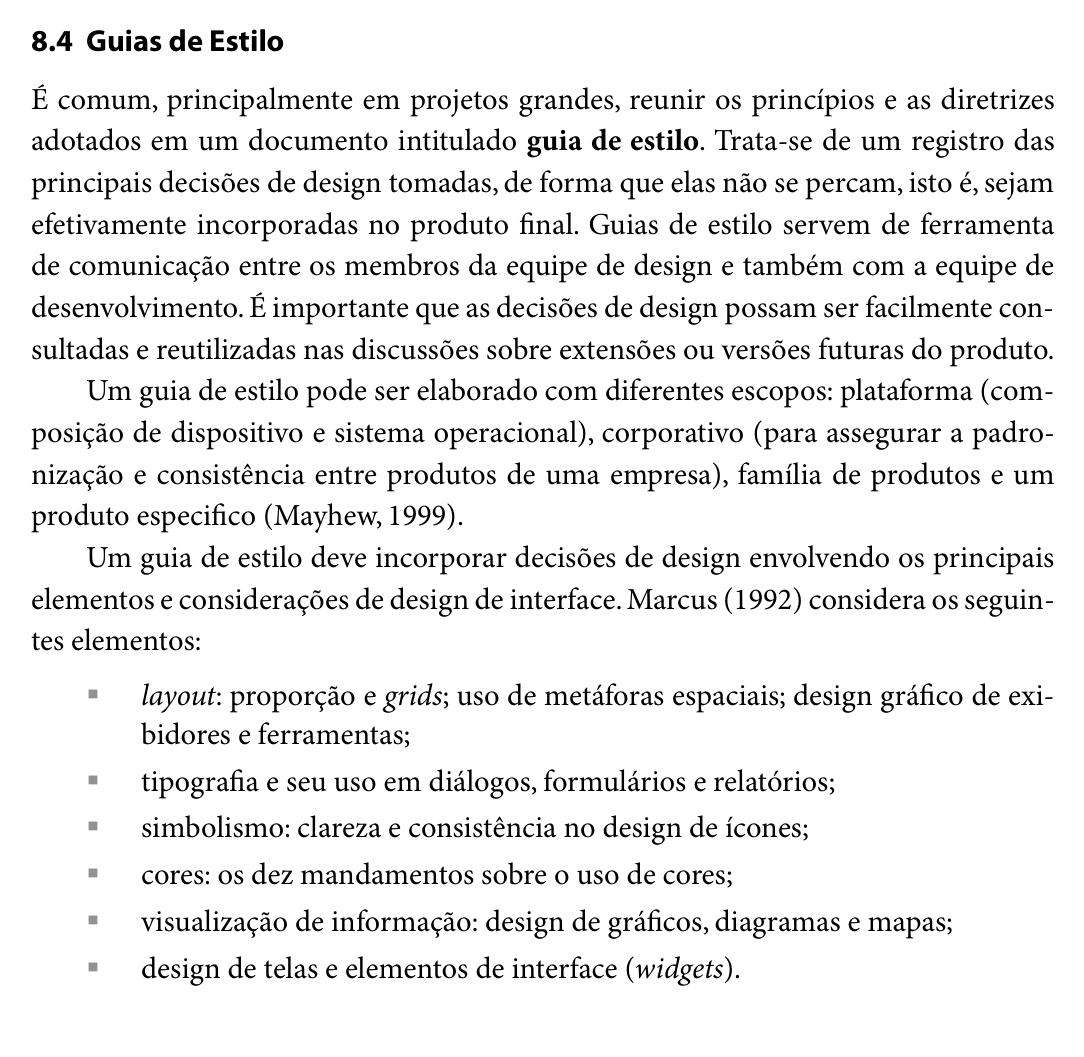
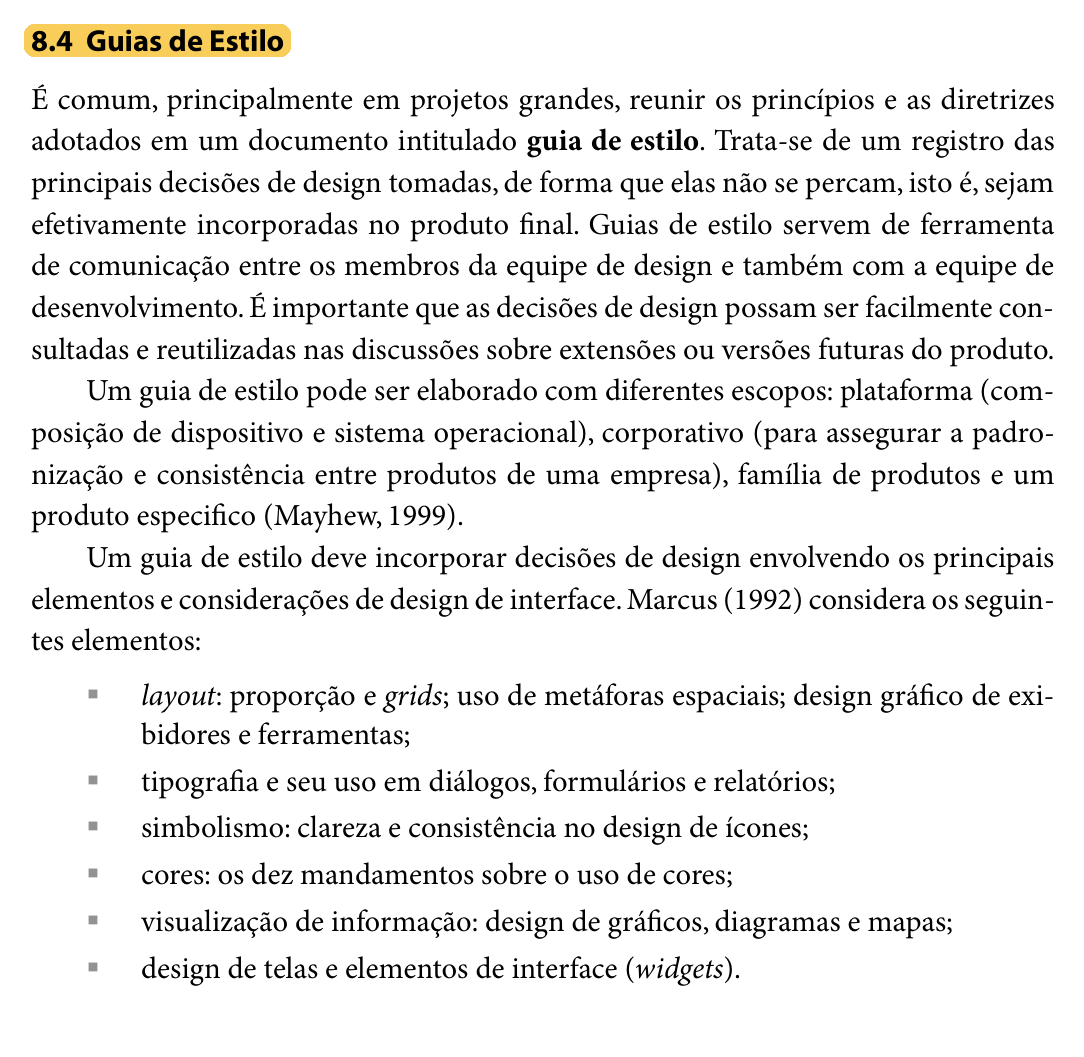
docs(etapa-3): padroniza guia de estilo, corrige fotos com grifo e refina cronograma executado

Changed region(s): [[0.0, 0.0, 0.274, 0.0624]]

diff --git a/docs/design-avaliacao-desenvolvimento/guia-de-estilo.md b/docs/design-avaliacao-desenvolvimento/guia-de-estilo.md
@@ -1,6 +1,3 @@
-**Responsável:** Leonardo da Silva Lopes Júnior — Guia de estilo  
-**Autor dos itens 15, 16 e 17:** Leonardo da Silva Lopes Júnior
-
 <div align="center" markdown="1">
 
 <p align="center"><b>Tabela de Contribuição</b></p>
@@ -12,7 +9,7 @@
 | Pedro Rocha Ferreira Lima | Revisão da conformidade visual com os achados de análise de requisitos e padrões de acessibilidade. |
 | Gemini | Auxílio na estruturação textual, organização dos códigos de cores, diagramação em Markdown e checagem de conformidade com o checklist de IHC (conforme Política de Uso de IA). |
 
-<p align="center"><b>Tabela 1:</b> Contribuição neste artefato. <b>Fonte:</b> Leonardo da Silva Lopes Júnior (2026).</p>
+<p align="center" style="font-size: 0.85em; margin-top: -0.6em;"><b>Fonte:</b> Leonardo da Silva Lopes Júnior (2026).</p>
 
 </div>
 
@@ -20,17 +17,15 @@
 
 ## Introdução
 
-Este documento apresenta o **Guia de Estilo** para o reprojeto do portal **PCI Concursos** (`pciconcursos.com.br`), correspondente aos **itens oficiais 15, 16 e 17** da Entrega 3 da disciplina de Interação Humano-Computador da Universidade de Brasília (SALES, 2026).
+Este documento apresenta o **Guia de Estilo** para o reprojeto do portal **PCI Concursos** (`pciconcursos.com.br`), elaborado para a Entrega 3 da disciplina de Interação Humano-Computador da Universidade de Brasília (SALES, 2026).
 
 No modelo de ciclo de vida da Engenharia de Usabilidade proposto por Deborah Mayhew (1999), adotado pelo Grupo 07 em seu [Processo de Design](../planejamento/processo-de-design.md), a fase de **Análise de Requisitos** tem como um de seus principais produtos a elaboração do guia de estilo. Esse documento sintetiza e operacionaliza as diretrizes, princípios de IHC e metas de usabilidade derivados da análise de tarefas, do perfil de usuário e das possibilidades e limitações da plataforma, garantindo que as decisões de design sejam mantidas e reflitam no produto final de forma consistente (BARBOSA; SILVA, 2010, p. 109-110, 282).
 
 ---
 
-## Itens de Conteúdo da Disciplina
+## 1. Fundamentação Teórica
 
-### O que é um Guia de Estilo (Item 15)
-* **Autor do item:** Leonardo da Silva Lopes Júnior
-
+### 1.1 O que é um Guia de Estilo
 Segundo Barbosa e Silva (2010, p. 282), é prática comum, sobretudo em projetos de grande escala ou em reprojetos de sistemas complexos, reunir os princípios e as diretrizes adotados em um documento formal intitulado **guia de estilo**. Esse documento atua como o registro central das principais decisões de design concebidas pela equipe, impedindo que se dispersem ao longo do ciclo de vida e assegurando que sejam fielmente incorporadas à interface final.
 
 Além disso, os autores destacam que os guias de estilo desempenham um papel fundamental como ferramenta de comunicação entre os designers de interação, desenvolvedores front-end, redatores e mantenedores do sistema, permitindo que soluções consolidadas sejam consultadas e reaproveitadas em extensões e versões futuras. Conforme apontado por Mayhew (1999), um guia de estilo pode abranger quatro escopos:
@@ -41,19 +36,19 @@ Além disso, os autores destacam que os guias de estilo desempenham um papel fun
 
 A Figura 1 reproduz o trecho da literatura (Seção 8.4, p. 282) que fundamenta a definição e a importância do guia de estilo.
 
-<div align="center" markdown="1">
+<div align="center">
 
-![Definição e escopo de Guias de Estilo na literatura de IHC](../assets/images/barbosa-guia-estilo-definicao-p282.png)
+<p align="center"><b>Figura 1: Referência Bibliográfica — Definição e Importância de Guia de Estilo</b></p>
 
-<p align="center"><b>Figura 1:</b> Definição e escopo de Guias de Estilo na literatura de IHC. <b>Fonte:</b> BARBOSA; SILVA (2010, p. 282), recorte do livro.</p>
+<img src="../../assets/images/barbosa-guia-estilo-definicao-p282.png" alt="Definição e escopo de Guias de Estilo na literatura de IHC" style="max-width: 80%; width: auto; border: 1px solid #d0d7de; border-radius: 6px; box-shadow: 0 4px 12px rgba(0,0,0,0.08); margin: 12px auto; display: block;">
+
+<p align="center" style="font-size: 0.85em; margin-top: 0.4em;"><b>Fonte:</b> BARBOSA e SILVA (2010, p. 282).</p>
 
 </div>
 
 ---
 
-### Estrutura do Guia de Estilo (Item 16)
-* **Autor do item:** Leonardo da Silva Lopes Júnior
-
+### 1.2 Estrutura Canônica do Guia de Estilo
 Para garantir abrangência, rigor técnico e conformidade acadêmica, Barbosa e Silva (2010, p. 283) sintetizam a estrutura clássica proposta por Marcus (1992) e Mayhew (1999) para a composição de guias de estilo. Essa estrutura organiza as decisões de design em seis seções fundamentais:
 
 1. **Introdução:** define o objetivo do guia, sua organização interna, o público-alvo (programadores, gerentes, equipe de suporte, designers), diretrizes de uso tanto na produção quanto na manutenção e procedimentos para mantê-lo atualizado;
@@ -65,17 +60,19 @@ Para garantir abrangência, rigor técnico e conformidade acadêmica, Barbosa e 
 
 Adicionalmente, Mayhew (1999) recomenda explicitar o *design rationale* (a justificativa de cada decisão), assegurando o rastreamento direto entre os problemas levantados nas etapas anteriores e os elementos de interface projetados. A Figura 2 ilustra o trecho da literatura (Seção 8.4, p. 283) que estabelece essa divisão estrutural.
 
-<div align="center" markdown="1">
+<div align="center">
 
-![Estrutura de Guia de Estilo segundo Marcus (1992) e Mayhew (1999)](../assets/images/barbosa-guia-estilo-estrutura-p283.png)
+<p align="center"><b>Figura 2: Referência Bibliográfica — Estrutura Canônica de Guia de Estilo</b></p>
 
-<p align="center"><b>Figura 2:</b> Estrutura de Guia de Estilo segundo Marcus (1992) e Mayhew (1999). <b>Fonte:</b> BARBOSA; SILVA (2010, p. 283), recorte do livro.</p>
+<img src="../../assets/images/barbosa-guia-estilo-estrutura-p283.png" alt="Estrutura de Guia de Estilo segundo Marcus (1992) e Mayhew (1999)" style="max-width: 80%; width: auto; border: 1px solid #d0d7de; border-radius: 6px; box-shadow: 0 4px 12px rgba(0,0,0,0.08); margin: 12px auto; display: block;">
+
+<p align="center" style="font-size: 0.85em; margin-top: 0.4em;"><b>Fonte:</b> BARBOSA e SILVA (2010, p. 283).</p>
 
 </div>
 
 ---
 
-## Estrutura Normativa do Guia de Estilo
+## 2. Estrutura Normativa do Guia de Estilo
 
 A seguir, apresentam-se as decisões de design do novo **PCI Concursos** organizadas rigorosamente segundo os seis eixos normativos da literatura (MARCUS, 1992; MAYHEW, 1999; BARBOSA; SILVA, 2010).
 
@@ -374,9 +371,9 @@ A Tabela 5 estabelece a padronização entre termos ambíguos do sistema antigo 
 
 ---
 
-## Correspondência com o Site Avaliado (Item 17)
+## 3. Correspondência com o Site Avaliado
 
-O Guia de Estilo formulado atende estritamente ao **Item 17** da lista de verificação da disciplina, estabelecendo correspondência direta com as características reais e com os gargalos observados no portal **PCI Concursos**:
+O Guia de Estilo estabelece correspondência direta entre as decisões projetuais e os gargalos empíricos diagnosticados no portal **PCI Concursos**:
 
 <div align="center" markdown="1">
 
@@ -398,13 +395,13 @@ O Guia de Estilo formulado atende estritamente ao **Item 17** da lista de verifi
 
 ---
 
-## Agradecimentos
+## 4. Agradecimentos
 
 A equipe agradece o apoio da ferramenta de inteligência artificial generativa **Gemini (Google)** na organização textual, cálculo das razões de contraste cromático e formatação em Markdown deste artefato, em estrita conformidade com a Política de Uso de IA da disciplina. A fundamentação teórica, a seleção dos trechos bibliográficos dos livros, as decisões de design normativo e a revisão técnica foram conduzidas e validadas integralmente pelo autor responsável.
 
 ---
 
-## Bibliografia
+## 5. Bibliografia
 
 > [1] SALES, André Barros de. *Plano de Ensino FIHC 022026 - Turma 01*. Brasília: FCTE/UnB, 2026.  
 > [2] BARBOSA, Simone Diniz Junqueira; SILVA, Bruno Santana da. *Interação Humano-Computador*. Rio de Janeiro: Elsevier, 2010.  
@@ -420,7 +417,7 @@ A equipe agradece o apoio da ferramenta de inteligência artificial generativa *
 
 ---
 
-## Histórico de Versões
+## 6. Histórico de Versões
 
 <div align="center" markdown="1">
 
@@ -429,5 +426,7 @@ A equipe agradece o apoio da ferramenta de inteligência artificial generativa *
 | `0.1` | 28/09/2026 | Abertura do documento de Guia de Estilo da Etapa 3 e estruturação inicial. | Leonardo da Silva Lopes Júnior | Daniel da Silva Batista |
 | `1.0` | 05/10/2026 | Implementação da fundamentação teórica dos Itens 15 e 16 com inclusão dos recortes bibliográficos do livro (Figuras 1 e 2). | Leonardo da Silva Lopes Júnior | Pedro Rocha Ferreira Lima |
 | `1.1` | 06/10/2026 | Preenchimento completo das 6 seções estruturais do guia de estilo (Marcus; Mayhew), detalhamento do padrão antitrapaça de download, paleta auditada WCAG 2.1 e correspondência com o PCI Concursos (Item 17). | Leonardo da Silva Lopes Júnior | Daniel da Silva Batista |
+
+<p align="center" style="font-size: 0.85em; margin-top: -0.6em;"><b>Fonte:</b> Leonardo da Silva Lopes Júnior (2026).</p>
 
 </div>

diff --git a/docs/planejamento/cronograma.md b/docs/planejamento/cronograma.md
@@ -166,7 +166,6 @@ Na Tabela 6, tem-se o registro da execução real das atividades da terceira ent
 | Elaboração do artefato de Metas de Usabilidade | Início: 05/10<br>Fim: 06/10 | Pedro Rocha Ferreira Lima | Início: 06/10<br>Fim: 06/10 | Daniel da Silva Batista |
 | Elaboração do artefato de Guia de Estilo | Início: 05/10<br>Fim: 06/10 | Leonardo da Silva Lopes Júnior | Início: 06/10<br>Fim: 06/10 | Daniel da Silva Batista, Pedro Rocha Ferreira Lima |
 | Elaboração do artefato de Características da Plataforma | Início: 05/10<br>Fim: 06/10 | Arthur Sismene Carvalho | Início: 06/10<br>Fim: 06/10 | Leonardo da Silva Lopes Júnior |
-| Atualização da navegação e menu da Etapa 3 no MkDocs | Início: 06/10<br>Fim: 06/10 | Daniel da Silva Batista | Início: 06/10<br>Fim: 06/10 | Pedro Rocha Ferreira Lima |
 | Gravação da Apresentação da Etapa 3 | Início: 06/10<br>Fim: 06/10 | Arthur Sismene, Daniel Batista, Leonardo Lopes, Pedro Lima | Início: 06/10<br>Fim: 06/10 | Arthur Sismene, Daniel Batista, Leonardo Lopes, Pedro Lima |
 | Reunião de Alinhamento e Ata da Etapa 3 | Início: 06/10<br>Fim: 06/10 | Arthur Sismene, Daniel Batista, Leonardo Lopes, Pedro Lima | Início: 06/10<br>Fim: 06/10 | Arthur Sismene, Daniel Batista, Leonardo Lopes, Pedro Lima |
 

diff --git a/docs/index.md b/docs/index.md
@@ -29,10 +29,10 @@ Este projeto tem como objetivo a análise rigorosa, avaliação empírica e heur
 
 ---
 
-### Diretrizes e Metas (Etapa 3)
+### Design, Avaliação e Desenvolvimento (Etapa 3)
 * [Princípios Gerais de Projeto](analise-de-requisitos/principios-gerais-de-projeto.md)
+* [Guia de Estilo](design-avaliacao-desenvolvimento/guia-de-estilo.md)
 * *Metas de Usabilidade (em desenvolvimento)*
-* *Guia de Estilo (em desenvolvimento)*
 * *Características da Plataforma para o Projeto (em desenvolvimento)*
 
 ---
